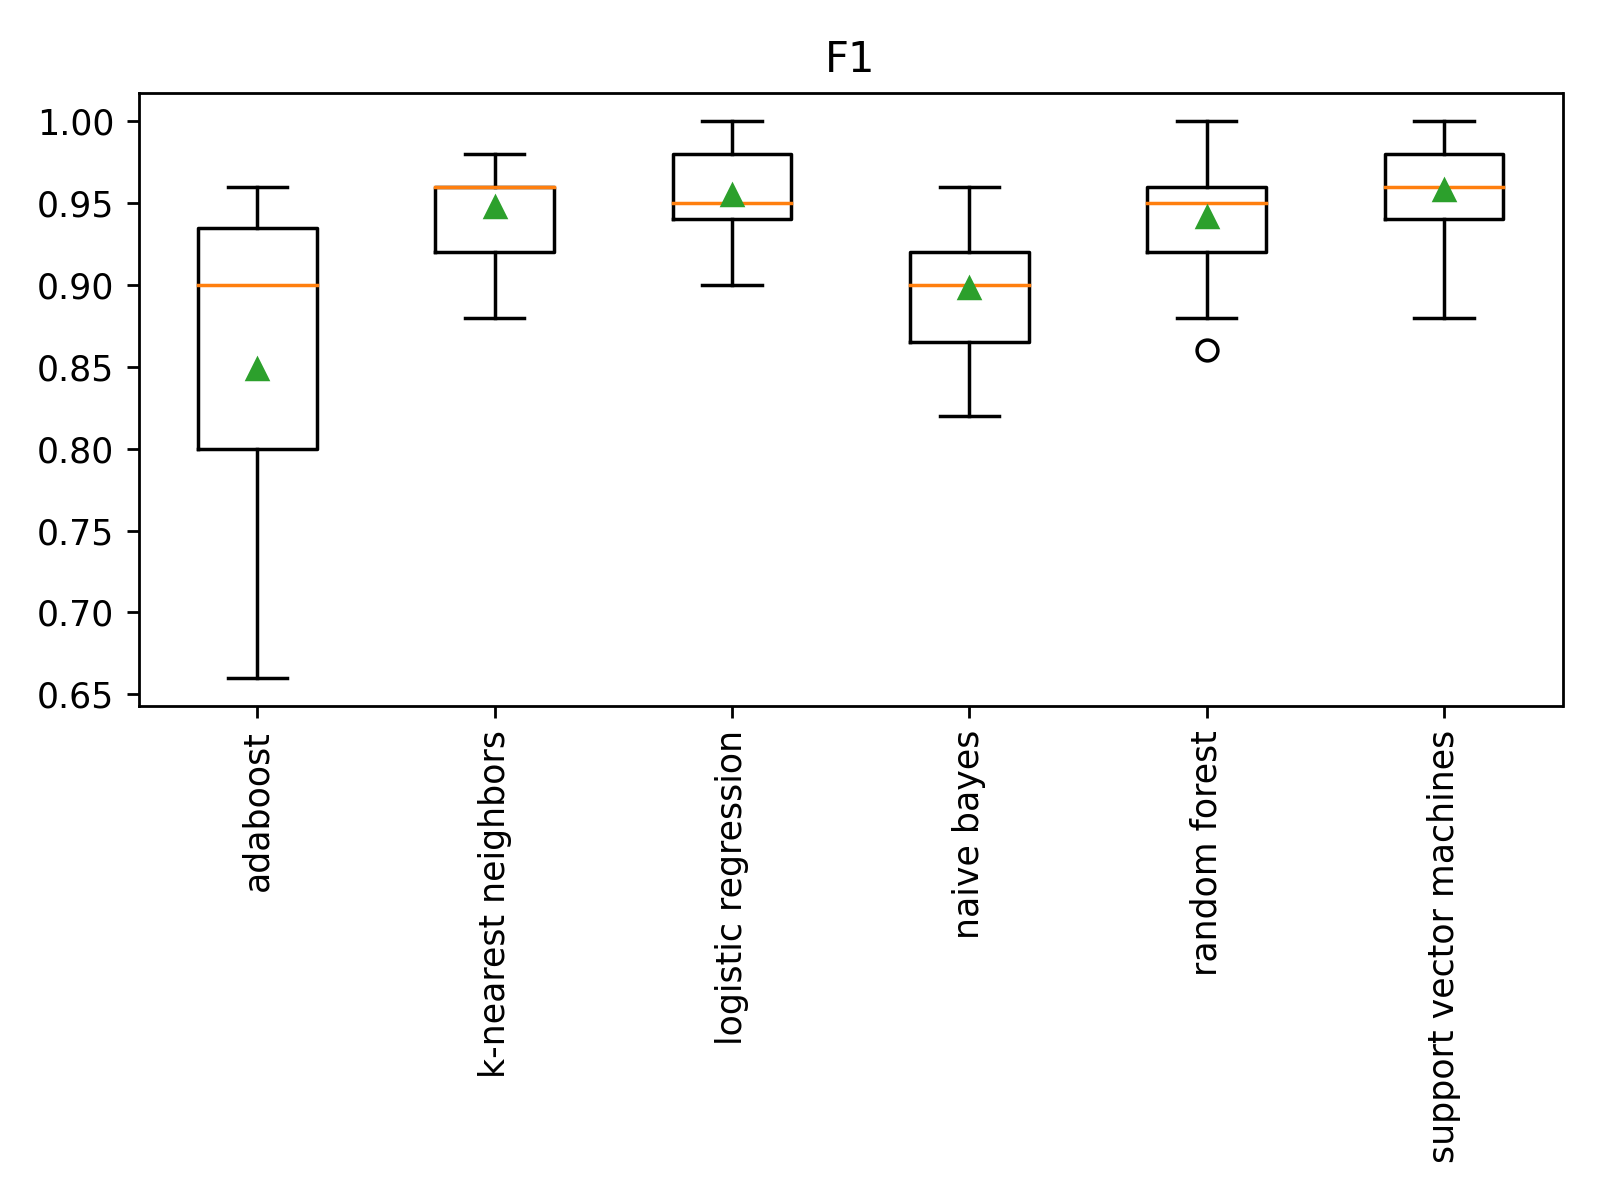
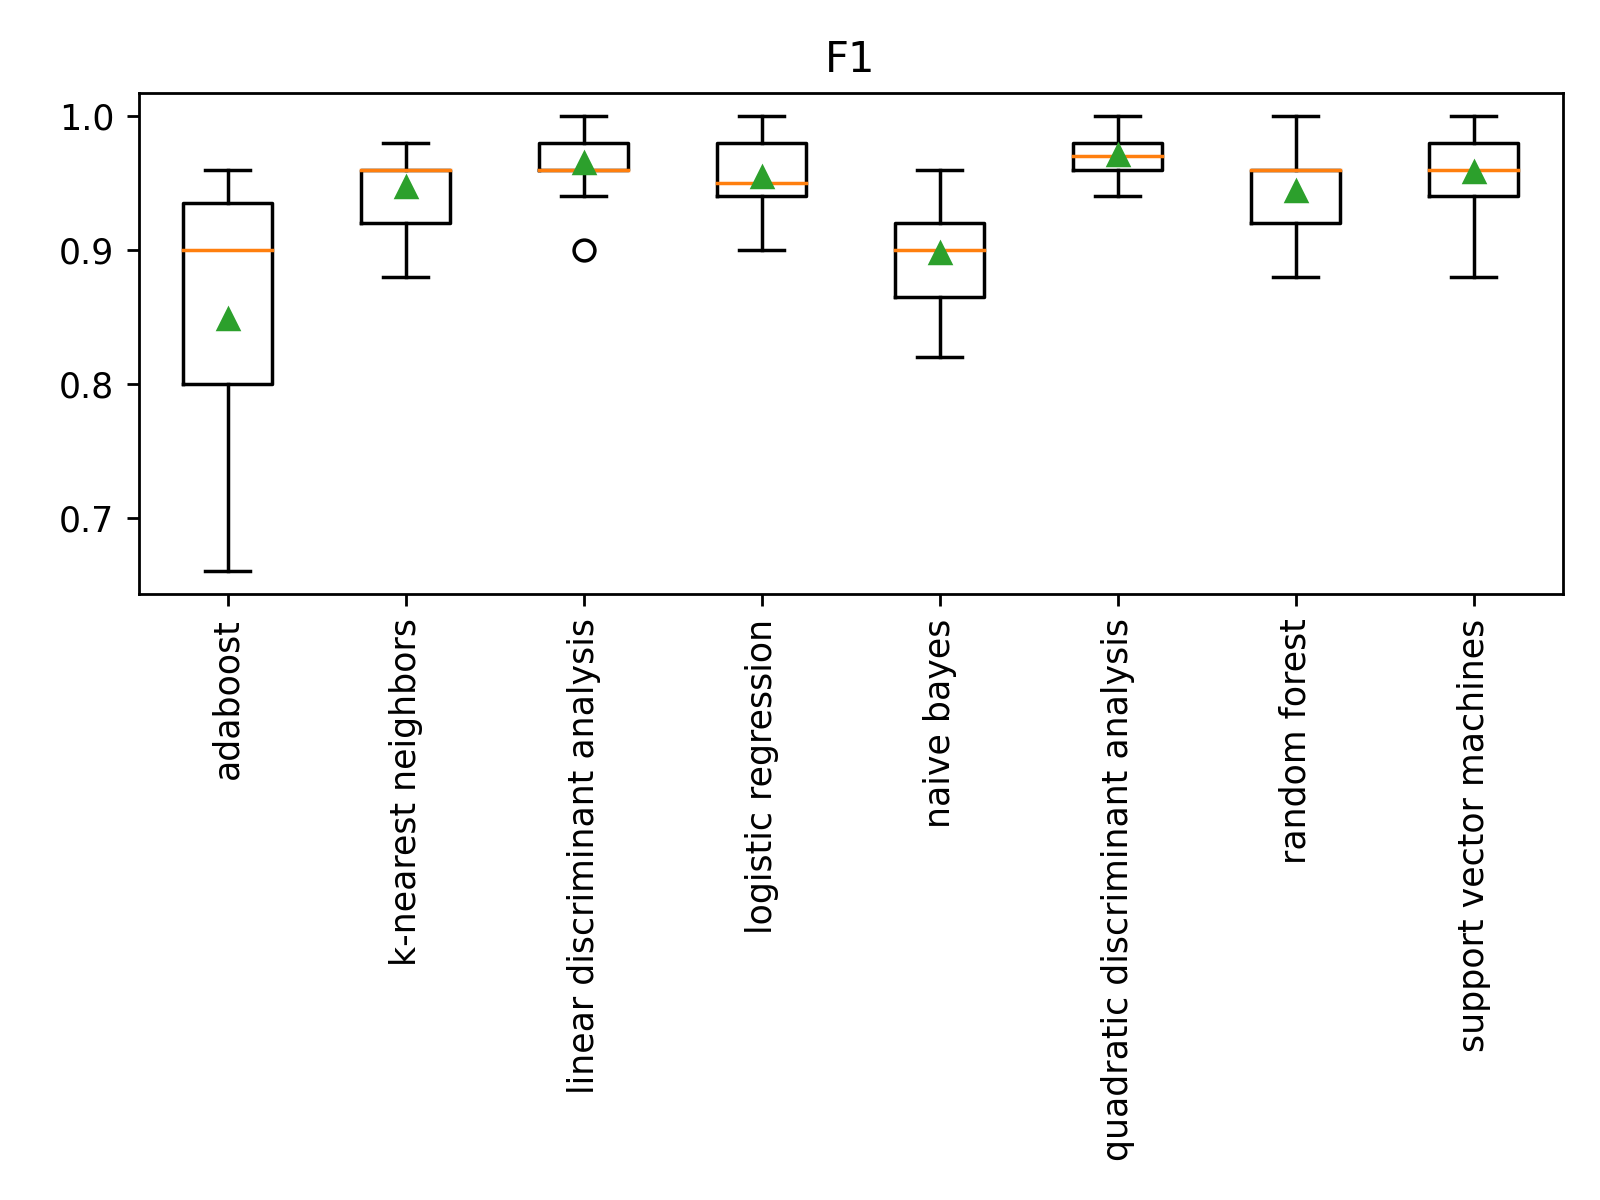
tried linear and quadratic da in kfold cv

diff --git a/3final_kfoldcv_classification.py b/3final_kfoldcv_classification.py
@@ -59,9 +59,12 @@ ada = AdaBoostClassifier()
 rf = RandomForestClassifier(class_weight='balanced')
 nb = GaussianNB()
 svm = SVC(probability=True, class_weight='balanced')
+lda = LinearDiscriminantAnalysis()
+qda = QuadraticDiscriminantAnalysis()
 
 models = {'logistic regression':logit, 'k-nearest neighbors':knn, 'adaboost':ada,
-           'random forest':rf, 'naive bayes':nb, 'support vector machines':svm}
+           'random forest':rf, 'naive bayes':nb, 'support vector machines':svm,
+           'linear discriminant analysis': lda, 'quadratic discriminant analysis':qda}
 
 metrics_functions = {
 'accuracy':get_balanced_accuracy,
